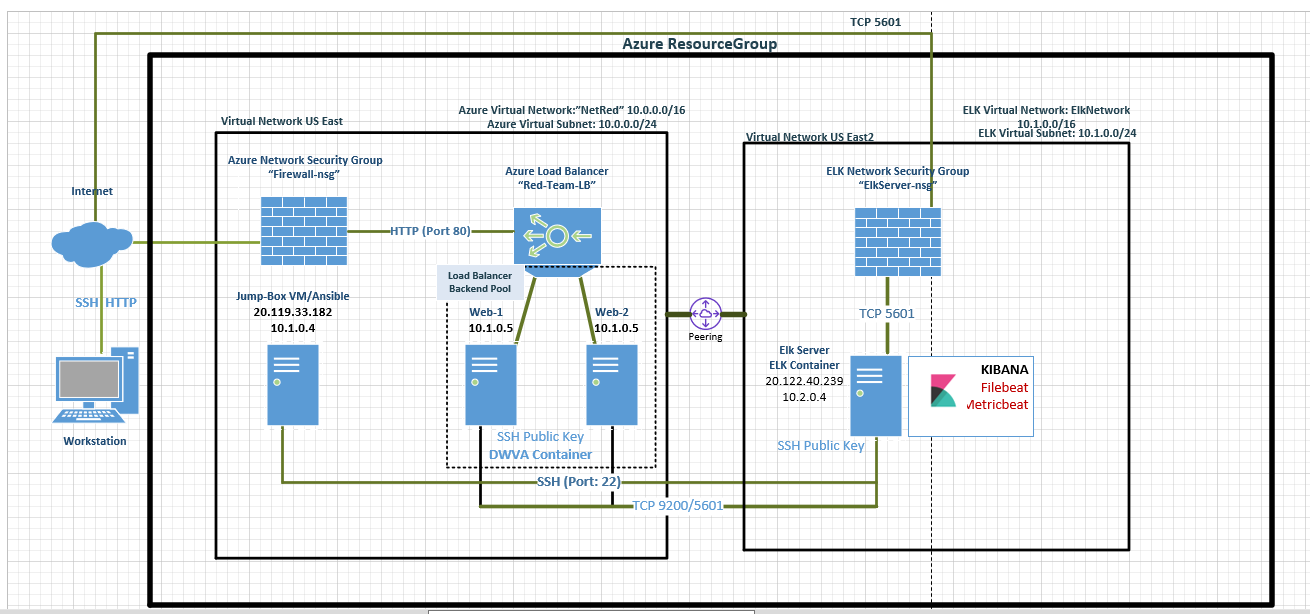
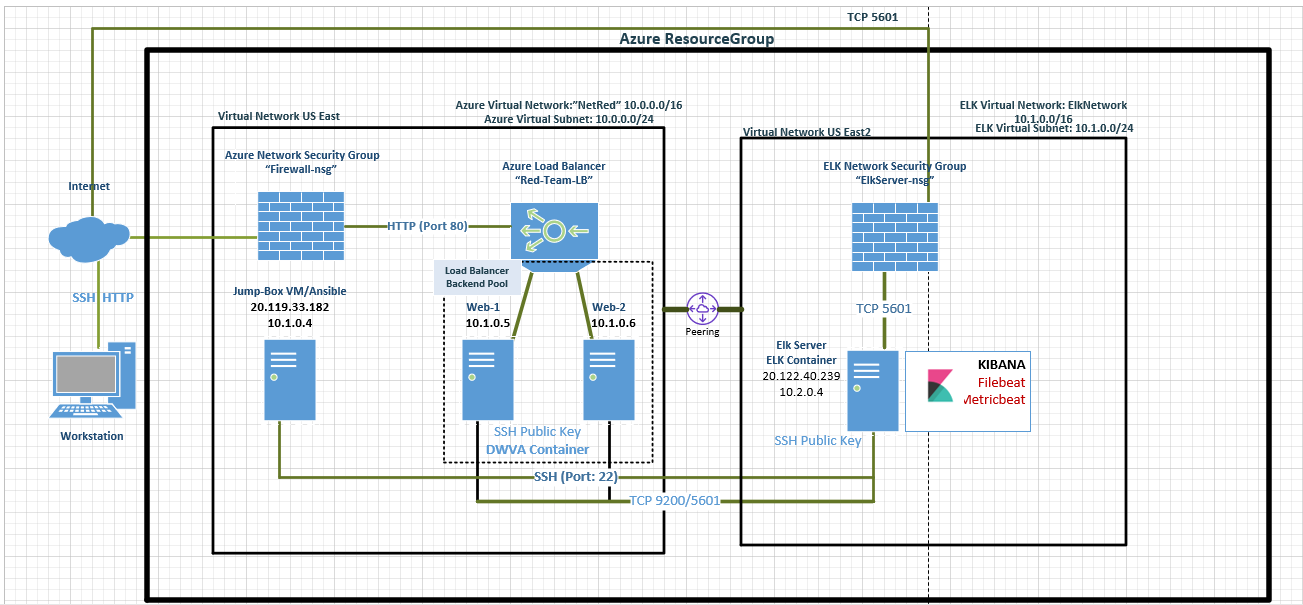
update to ip and screenshot

diff --git a/README.md b/README.md
@@ -90,7 +90,7 @@ A summary of the access policies in place can be found in the table below.
 
 | Name     | Publicly Accessible | Allowed IP Addresses                 |
 |----------|---------------------|--------------------------------------|
-| Jump Box | Yes              	 |  Workstation Public IP 99.110.222.198|
+| Jump Box | Yes              	 |  10.1.0.4/20.119.33.182              |
 | Web-1    | No                  |  10.1.0.5 on SSH 22                  |
 | Web-2    | No                  |  10.1.0.6 on SSH 22                  |
 |Elk-Server| No                  |  Workstation Public IP using TCP 5601|
@@ -240,7 +240,7 @@ output.elasticsearch:
     password: "changeme"
 
   setup.kibana:
-    host: "10.1.0.4:5601"
+    host: "10.2.0.4:5601"
   ```
 - Run the playbook, (`ansible-playbook metricbeat-playbook.yml`) and navigate to _Kibana > Add Metric Data > Docker Metrics > Module Status_ to check that the installation worked as expected.
 
